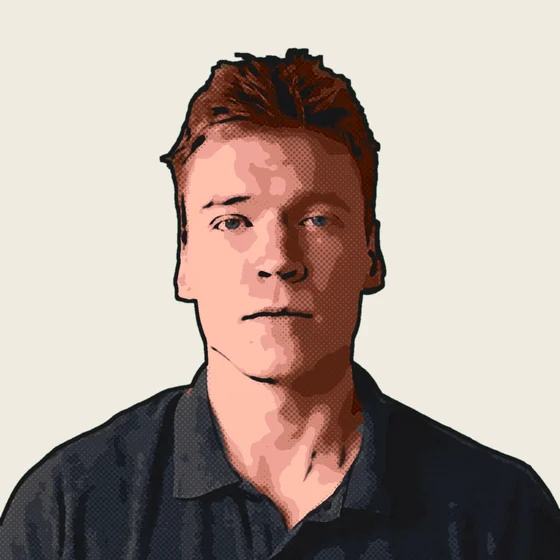
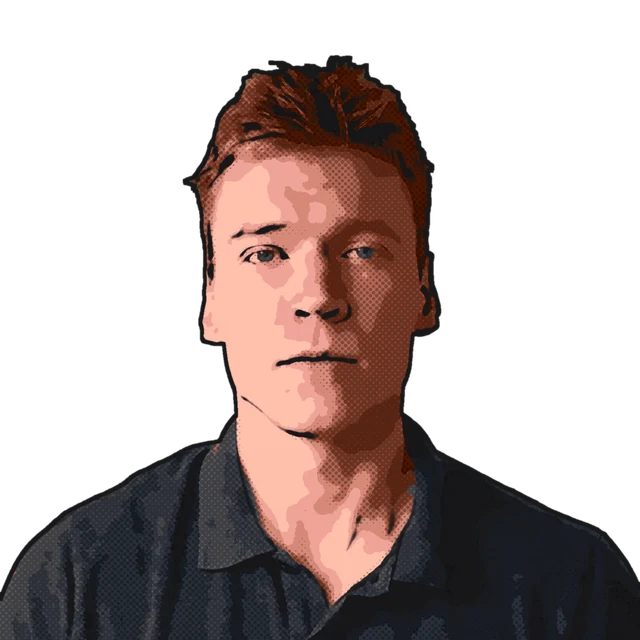
Portret: większy, bez ramki, z przezroczystym tłem (działa w light i dark)
Claude-Session: https://claude.ai/code/session_01DqNdFEdZHzvqvVXA8SYBdQ

diff --git a/src/styles/global.css b/src/styles/global.css
@@ -713,17 +713,16 @@ html.dark .about-svg-dark {
 /* === Publikacje w wersji do pracy: portret + edukacja === */
 .pub-intro {
   display: flex;
-  align-items: flex-start;
-  gap: 2rem;
-  margin: 1.5rem 0 2.5rem;
+  align-items: center;
+  gap: 2.5rem;
+  margin: 1rem 0 2.5rem;
 }
 
 .pub-portrait {
   flex: 0 0 auto;
-  width: 200px;
-  height: 200px;
+  width: 320px;
+  height: 320px;
   display: block;
-  border: 1px solid var(--border);
 }
 
 .pub-intro h2 {
@@ -734,15 +733,17 @@ html.dark .about-svg-dark {
   margin-bottom: 0;
 }
 
-@media (max-width: 560px) {
+@media (max-width: 640px) {
   .pub-intro {
     flex-direction: column;
+    align-items: flex-start;
     gap: 1.25rem;
   }
 
   .pub-portrait {
-    width: 140px;
-    height: 140px;
+    width: 100%;
+    max-width: 320px;
+    height: auto;
   }
 }
 
